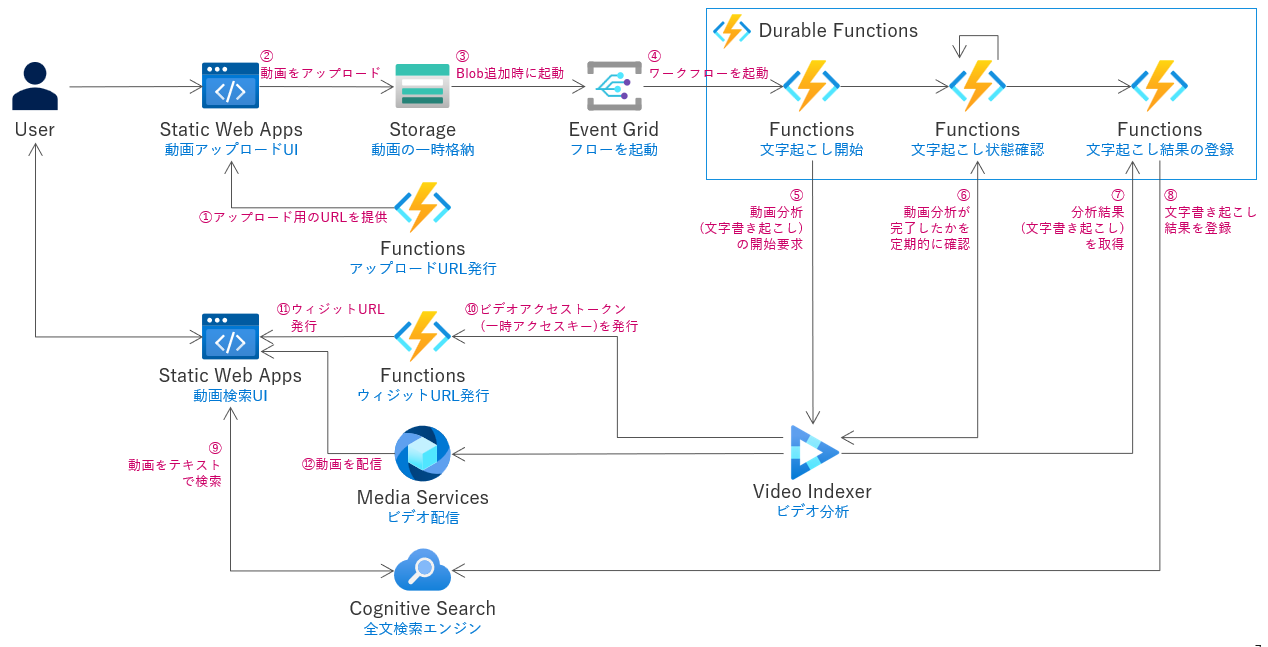
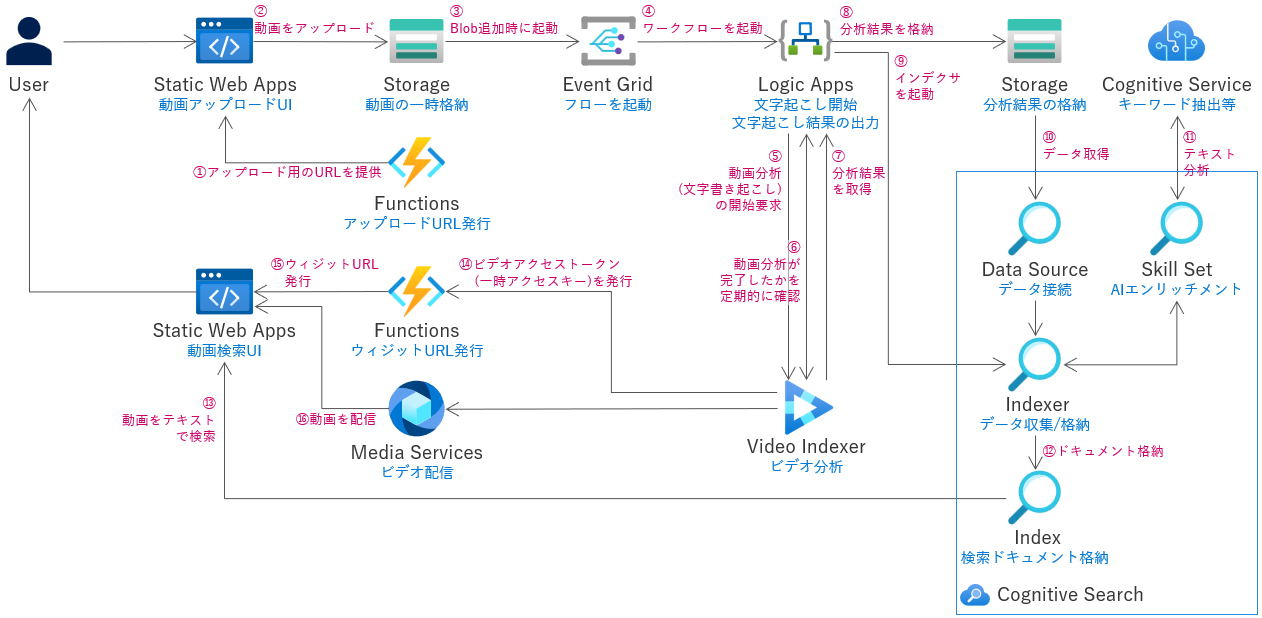
ワークフロー処理 Logic Apps で行うことに伴うドキュメントの修正

diff --git a/README.md b/README.md
@@ -10,6 +10,7 @@
 - [.NET 6.0](https://dotnet.microsoft.com/ja-jp/download/dotnet/6.0)
 - [Azure Functions Core Tools ](https://learn.microsoft.com/ja-jp/azure/azure-functions/functions-run-local)
 - [Azure Static Web Apps CLI](https://github.com/Azure/static-web-apps-cli)
+- [npm](https://www.npmjs.com/)
 - bash が実行できるコンソール (Windows だと [Git Bash](https://gitforwindows.org/) など)
 
 ## デプロイ方法
@@ -26,12 +27,13 @@
 
 ## 使用する Azure サービス
 - Azure Functions
+- Azure Logic Apps
 - Azure Static Web Apps
 - Azure Cognitive Search
+- Azure Cognitive Service
 - Azure Video Indexer
 - Azure Media Services
 - Azure Event Grid
 - Azure Storage
-- Azure Key Vault
 - Azure Application Insights
 - Azure Active Directory
